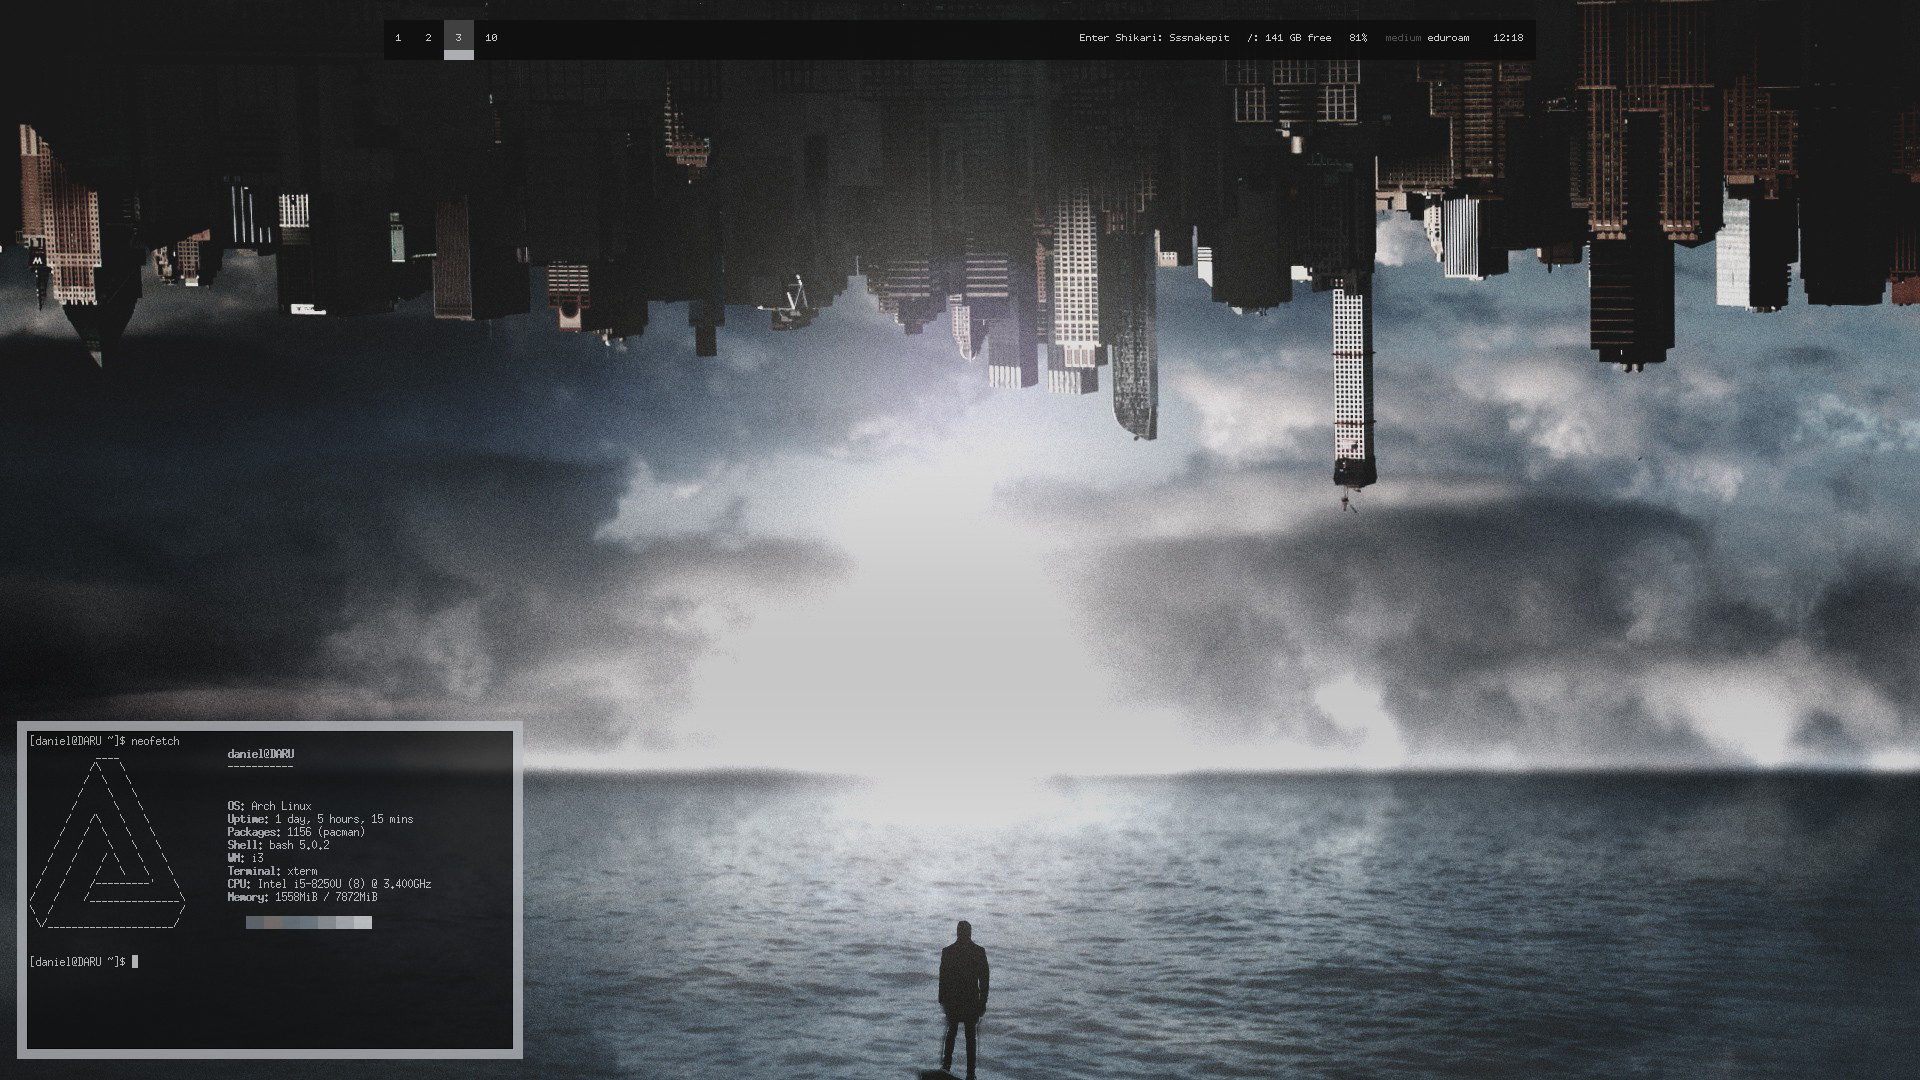
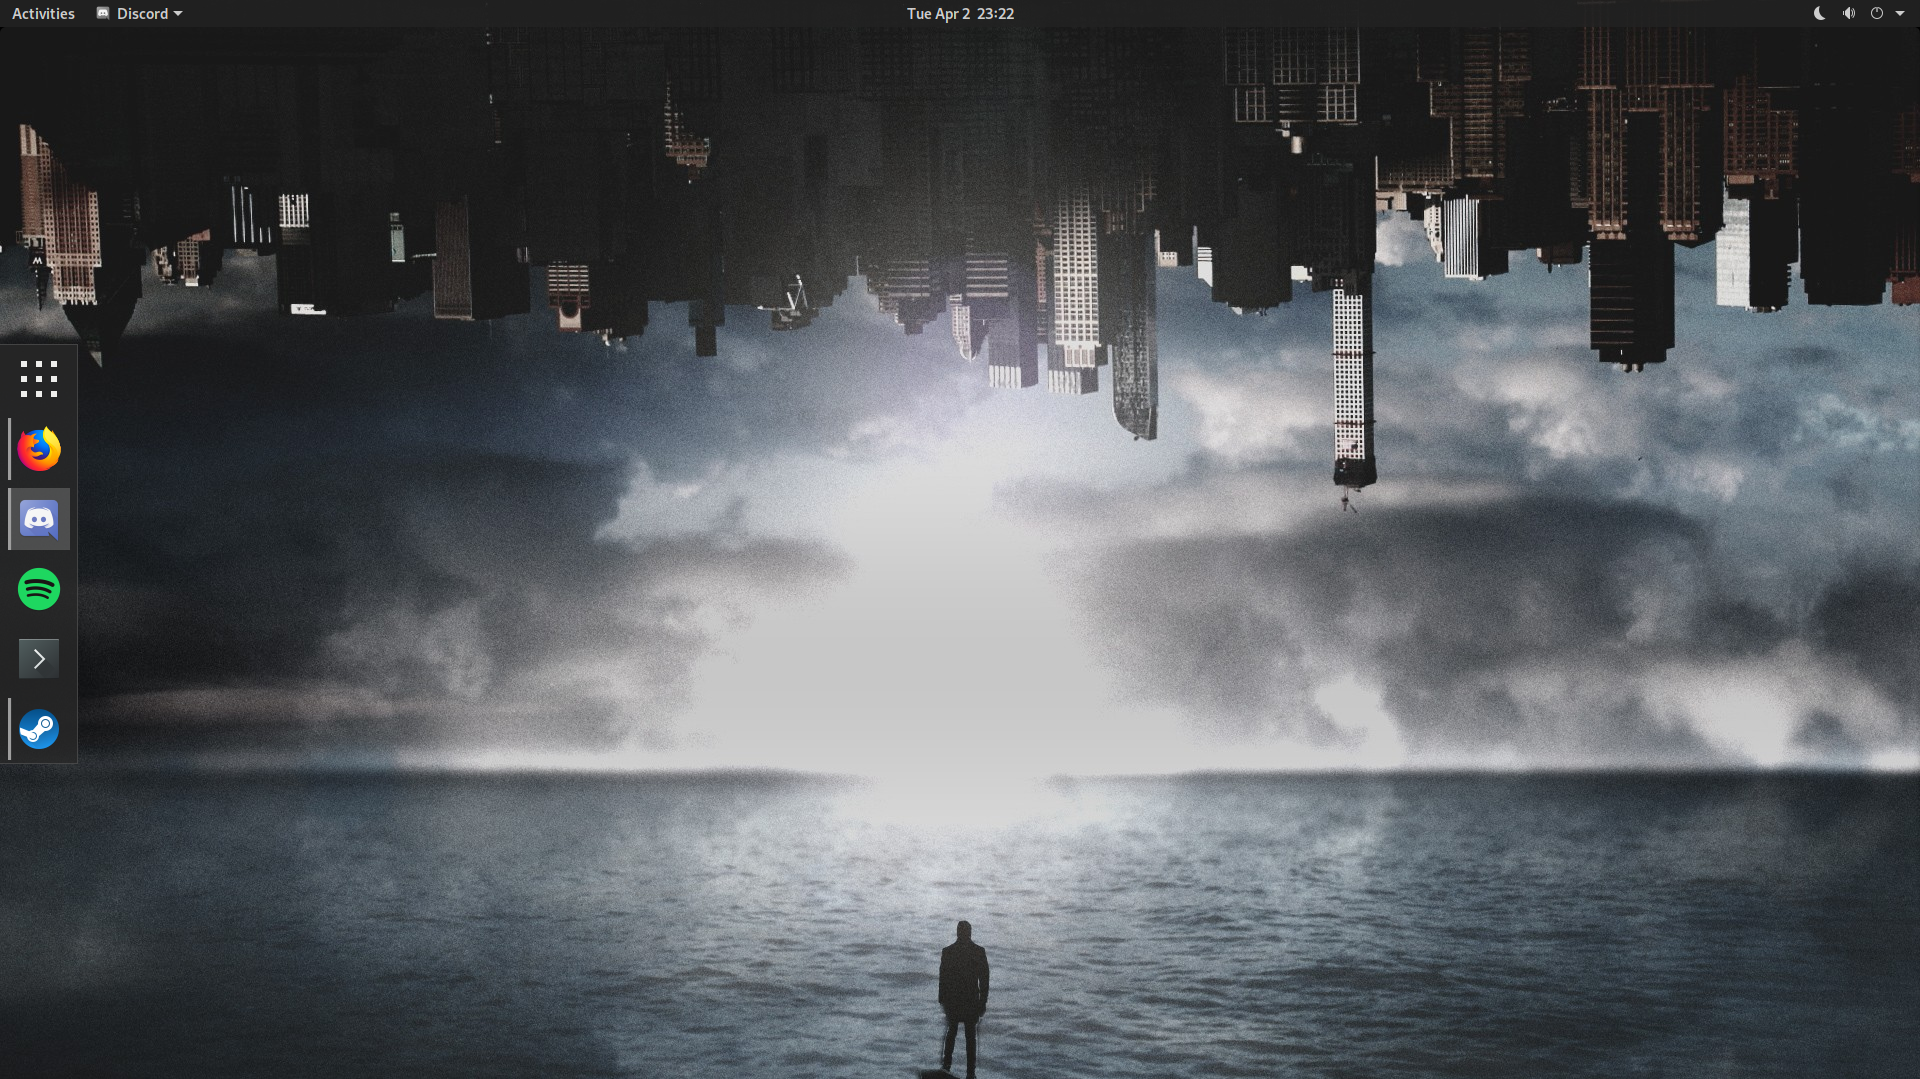
switched from i3 to gnome

diff --git a/README.md b/README.md
@@ -1,14 +1,17 @@
 # dotfiles
 config files for my archlinux install. will update as i change my setup, mostly here so i can keep configs consistent between my desktop and laptop but anyone is more than welcome to use these configs as they please.
 
+now i'm using gnome more than i3 so the config files i have for when i use i3 are no longer being updated, at least for now. i might return to i3 in future, but for now that's not the case.
+
 ## the stuff i use
 - **os:** archlinux
-- **wm:** i3-gaps
-- **bar:** polybar
-- **launcher:** rofi
-- **notifications:** dunst
-- **compositor:** compton
+- **de:** gnome
+- **theme:** ultimate dark flat (violet)
+- **icons:** breeze dark
+- **system font:** garuda
+- **terminal font:** source code pro extra light
 - **shell:** zsh
+- **extra stuffs:** dash to dock, cpu power manager
 
 ## screenshots
 ### busy
